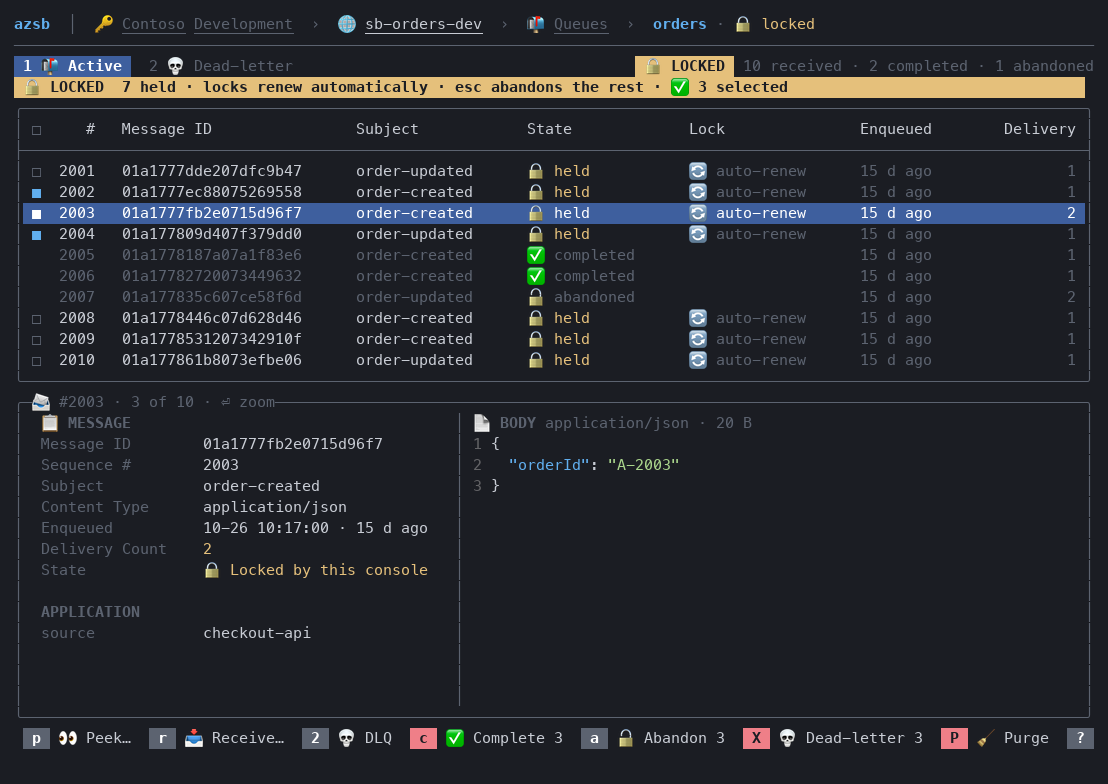
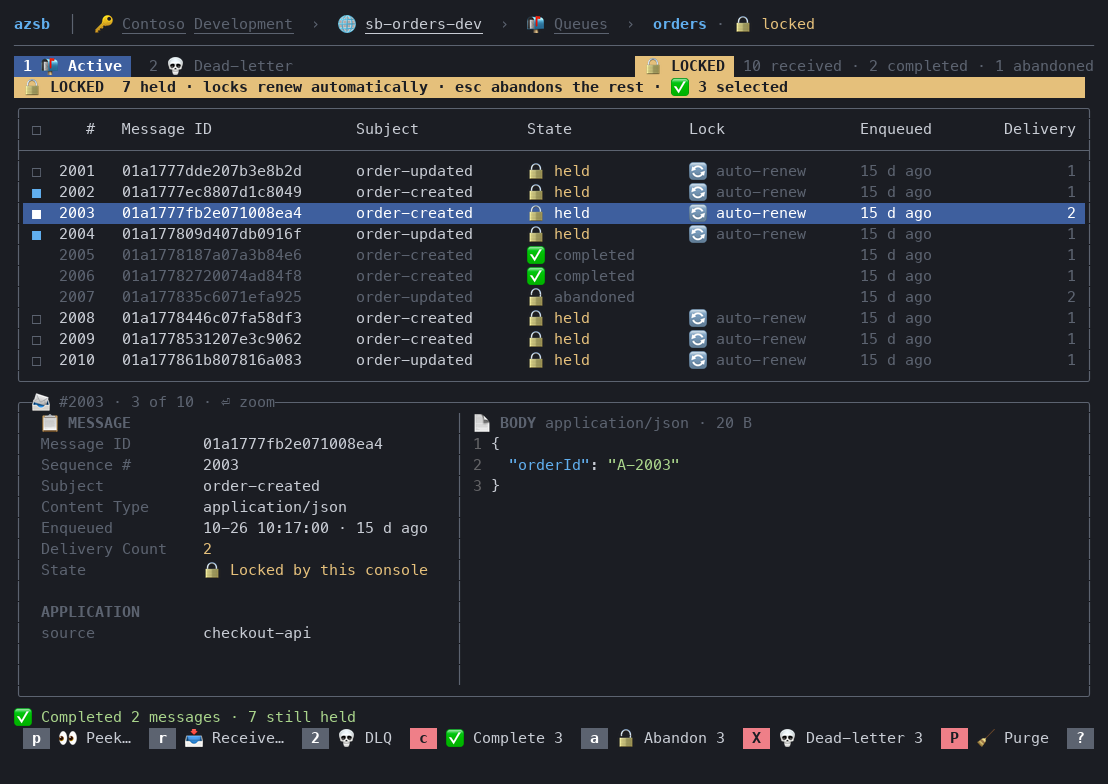
Report locked-mode settling in a status line
- Complete, abandon and dead-letter in Locked mode run without OperationDialog
- One-line status under the list: "✅ Completed 2 messages · 7 still held"
- Failures in the status in the danger color, still recorded in the activity log
- Detail page returns to the list after settling
- CLAUDE.md: OperationDialog rule limited to Retry, Resend, Requeue and Purge

Changed region(s): [[0.2148, 0.2143, 0.2762, 0.4898], [0.0, 0.8878, 0.3375, 0.949], [0.3069, 0.551, 0.3375, 0.5816]]

diff --git a/tests/ServiceBusConsole.Tests/LockedBrowserTests.cs b/tests/ServiceBusConsole.Tests/LockedBrowserTests.cs
@@ -1,4 +1,5 @@
 using System.Text;
+using Microsoft.Extensions.DependencyInjection;
 using RazorConsole.Testing;
 using ServiceBusConsole.Components;
 using Spectre.Console;
@@ -45,13 +46,13 @@ public sealed class LockedBrowserTests
         return (app, terminal);
     }
 
-    private static async Task ClickOkAsync(HeadlessTerminal terminal, string result)
+    /// <summary>Settling reports in one line under the list; no dialog to dismiss.</summary>
+    private static async Task<HeadlessTerminalFrame> WaitForStatusAsync(HeadlessTerminal terminal, string status)
     {
-        var frame = await terminal.WaitUntilAsync(f => f.ContainsText(result) && f.ContainsText("⏎  OK"), AppHarness.Timeout, cancellationToken: Ct);
-        var y = Enumerable.Range(0, frame.Height).First(y => frame.GetLine(y).Contains("⏎  OK"));
-        await terminal.ClickAsync(frame.GetLine(y).IndexOf("⏎  OK", StringComparison.Ordinal) + 2, y, Ct);
-        await terminal.WaitUntilAsync(f => !f.ContainsText(result), AppHarness.Timeout, cancellationToken: Ct);
+        var frame = await terminal.WaitForTextAsync(status, AppHarness.Timeout, Ct);
+        frame.ContainsText("⏎  OK").ShouldBeFalse(frame.ScreenText);
         await AppHarness.WaitForTableFocusAsync(terminal);
+        return frame;
     }
 
     /// <summary>The counts beside the tabs, and the strip's held count.</summary>
@@ -90,7 +91,10 @@ public sealed class LockedBrowserTests
         await terminal.SendKeyAsync(ConsoleKey.C, 'c', cancellationToken: Ct);
         await terminal.WaitForTextAsync("Complete message #1?", AppHarness.Timeout, Ct);
         await terminal.SendKeyAsync(ConsoleKey.Y, 'y', cancellationToken: Ct);
-        await ClickOkAsync(terminal, "Completed 1 of 1.");
+        var status = await WaitForStatusAsync(terminal, "✅ Completed message #1 · 2 still held");
+        Foreground(status, "✅ Completed message #1", "Completed").ShouldBe(Theme.Success);
+        terminal.Services.GetRequiredService<ActivityLog>().Entries
+            .ShouldContain(e => e.Kind == ActivityKind.Operation && e.Text == "Completing message #1: Completed message #1");
 
         var frame = await WaitForCountsAsync(terminal, "3 received · 1 completed", 2);
         frame.GetLine(Row(frame, "first")).ShouldContain("✅ completed");
@@ -121,12 +125,12 @@ public sealed class LockedBrowserTests
         await using var _ = terminal;
 
         await terminal.SendKeyAsync(ConsoleKey.A, 'a', cancellationToken: Ct);
-        await ClickOkAsync(terminal, "Abandoned 1 of 1.");
+        await WaitForStatusAsync(terminal, "✅ Abandoned message #1 · 2 still held");
         await terminal.SendKeyAsync(ConsoleKey.DownArrow, '\0', cancellationToken: Ct);
         await terminal.SendKeyAsync(ConsoleKey.X, 'X', ConsoleModifiers.Shift, Ct);
         await terminal.WaitForTextAsync("Move message #2 to the dead-letter queue?", AppHarness.Timeout, Ct);
         await terminal.SendKeyAsync(ConsoleKey.Y, 'y', cancellationToken: Ct);
-        await ClickOkAsync(terminal, "Dead-lettered 1 of 1.");
+        await WaitForStatusAsync(terminal, "✅ Dead-lettered message #2 · 1 still held");
         app.Messages.Received.ShouldNotBeNull().LoseLock(3);
 
         var frame = await WaitForCountsAsync(terminal, "3 received · 1 abandoned · 1 dead-lettered", 0);
@@ -143,7 +147,7 @@ public sealed class LockedBrowserTests
         var (app, terminal) = await ReceiveOrdersAsync();
         await using var _ = terminal;
         await terminal.SendKeyAsync(ConsoleKey.A, 'a', cancellationToken: Ct);
-        await ClickOkAsync(terminal, "Abandoned 1 of 1.");
+        await WaitForStatusAsync(terminal, "✅ Abandoned message #1 · 2 still held");
 
         var browserFocus = terminal.FocusKey;
         await terminal.SendKeyAsync(ConsoleKey.Enter, '\r', cancellationToken: Ct);
@@ -160,10 +164,34 @@ public sealed class LockedBrowserTests
         await terminal.SendKeyAsync(ConsoleKey.C, 'c', cancellationToken: Ct);
         await terminal.WaitForTextAsync("Complete message #2?", AppHarness.Timeout, Ct);
         await terminal.SendKeyAsync(ConsoleKey.Y, 'y', cancellationToken: Ct);
-        await ClickOkAsync(terminal, "Completed 1 of 1.");
+        await WaitForStatusAsync(terminal, "✅ Completed message #2 · 1 still held");
 
         frame = await WaitForCountsAsync(terminal, "3 received · 1 completed · 1 abandoned", 1);
         frame.GetLine(Row(frame, "second")).ShouldContain("✅ completed");
         app.Messages.Completed.ShouldBe([2L]);
+    }
+
+    [Test]
+    public async Task FailedSettle_ShowsInTheStatusInTheDangerColor_AndInTheActivityLog()
+    {
+        var (app, terminal) = await ReceiveOrdersAsync();
+        await using var _ = terminal;
+        app.Messages.FailSettle.Add(2);
+
+        await terminal.SendKeyAsync(ConsoleKey.A, '\u0001', ConsoleModifiers.Control, Ct);
+        await terminal.WaitForTextAsync("3 selected", AppHarness.Timeout, Ct);
+        await terminal.SendKeyAsync(ConsoleKey.C, 'c', cancellationToken: Ct);
+        await terminal.WaitForTextAsync("Complete 3 messages?", AppHarness.Timeout, Ct);
+        await terminal.SendKeyAsync(ConsoleKey.Y, 'y', cancellationToken: Ct);
+
+        const string status = "❌ Completed 2 of 3. Failed messages stay selected: #2 Service Bus is busy · 1 still held";
+        var frame = await WaitForStatusAsync(terminal, status);
+        Foreground(frame, status, "Completed").ShouldBe(Theme.Danger);
+        frame = await WaitForCountsAsync(terminal, "3 received · 2 completed", 1);
+        frame.ContainsText("1 selected").ShouldBeTrue(frame.ScreenText);
+        frame.GetLine(Row(frame, "second")).ShouldContain("🔒 held");
+        app.Messages.Completed.Order().ShouldBe([1L, 3L]);
+        terminal.Services.GetRequiredService<ActivityLog>().Entries
+            .ShouldContain(e => e.Kind == ActivityKind.Error && e.Text.StartsWith("Completing 3 messages: Completed 2 of 3.", StringComparison.Ordinal));
     }
 }

diff --git a/src/ServiceBusConsole/Messaging/MessageBrowser.cs b/src/ServiceBusConsole/Messaging/MessageBrowser.cs
@@ -27,6 +27,9 @@ public sealed class MessageBrowser(MessageSource source, IServiceBusNamespace ns
     /// <summary>The batch operation in progress or finished (until <see cref="Dismiss"/>), for the progress dialog; null when idle.</summary>
     public OperationProgress? Operation { get; private set; }
 
+    /// <summary>The last complete, abandon or dead-letter, for the status line under the list; null after a new load.</summary>
+    public OperationProgress? Settled { get; private set; }
+
     public event Action? Changed;
 
     /// <summary>A load or batch operation ended without throwing: finished with a result, or (a load) done or cancelled.</summary>
@@ -436,6 +439,7 @@ public sealed class MessageBrowser(MessageSource source, IServiceBusNamespace ns
         Messages = messages;
         Mode = mode;
         _settled.Clear();
+        Settled = null;
         Selected.Clear();
         Cursor = 0;
         Changed?.Invoke();
@@ -465,11 +469,12 @@ public sealed class MessageBrowser(MessageSource source, IServiceBusNamespace ns
         }
     }
 
-    // Settled rows stay in the list, marked; failed ones stay selected.
+    // Settled rows stay in the list, marked; failed ones stay selected. Reports in the status line, not a dialog.
     private Task SettleAsync(string title, string stepName, string pastVerb, LockedState settledAs, IReadOnlyList<MessageInfo> targets,
         Func<ILockedMessages, MessageInfo, CancellationToken, Task> settle) =>
-        RunAsync(new(title, [new(stepName, targets.Count)]), async op =>
+        RunAsync(new(title, [new(stepName, targets.Count)], modal: false), async op =>
         {
+            Settled = null;
             var locked = _locked ?? throw new InvalidOperationException(MessagingStrings.MessageBrowser_NoLockedMessages);
             var failures = new ConcurrentBag<Failure>();
             var done = await RunParallelAsync(Start(op, 0), targets, async (m, ct) =>
@@ -484,7 +489,9 @@ public sealed class MessageBrowser(MessageSource source, IServiceBusNamespace ns
                 catch (Exception ex) { failures.Add(new(m, Describe(ex))); return false; }
             });
             UpdateSelection(targets, failures.Select(f => f.Message));
-            Report(op, pastVerb, targets.Count, done.Count, [.. failures]);
+            if (failures.IsEmpty) op.Finish(MessagingStrings.FormatMessageBrowser_Settled(pastVerb, What(targets)), OperationOutcome.Succeeded);
+            else Report(op, pastVerb, targets.Count, done.Count, [.. failures]);
+            Settled = op;
         });
 
     private async Task<IReadOnlyList<MessageInfo>> RunParallelAsync(OperationStep step, IReadOnlyList<MessageInfo> items, Func<MessageInfo, CancellationToken, Task<bool>> op)

diff --git a/tests/ServiceBusConsole.Tests/Screenshots.cs b/tests/ServiceBusConsole.Tests/Screenshots.cs
@@ -177,20 +177,20 @@ public sealed class Screenshots
         await AppHarness.WaitForSettledAsync(terminal, f => f.ContainsText("10 received") && f.ContainsText("10 held"));
         await AppHarness.WaitForTableFocusAsync(terminal);
 
-        foreach (var _ in Enumerable.Range(0, 4)) await Key(terminal, ConsoleKey.DownArrow);
+        foreach (var _ in Enumerable.Range(0, 6)) await Key(terminal, ConsoleKey.DownArrow);
+        await Key(terminal, ConsoleKey.A, 'a');
+        await WaitForStatusAsync(terminal, "Abandoned message #2007");
+        await Key(terminal, ConsoleKey.UpArrow);
         await Key(terminal, ConsoleKey.Spacebar, ' ');
-        await Key(terminal, ConsoleKey.DownArrow);
+        await Key(terminal, ConsoleKey.UpArrow);
         await Key(terminal, ConsoleKey.Spacebar, ' ');
         await terminal.WaitForTextAsync("2 selected", AppHarness.Timeout, Ct);
         await Key(terminal, ConsoleKey.C, 'c');
         await terminal.WaitForTextAsync("Complete 2 messages?", AppHarness.Timeout, Ct);
         await Key(terminal, ConsoleKey.Y, 'y');
-        await DismissAsync(terminal, "Completed 2 of 2.");
-        await Key(terminal, ConsoleKey.DownArrow);
-        await Key(terminal, ConsoleKey.A, 'a');
-        await DismissAsync(terminal, "Abandoned 1 of 1.");
+        await WaitForStatusAsync(terminal, "Completed 2 messages");
 
-        foreach (var _ in Enumerable.Range(0, 5)) await Key(terminal, ConsoleKey.UpArrow);
+        foreach (var _ in Enumerable.Range(0, 3)) await Key(terminal, ConsoleKey.UpArrow);
         foreach (var _ in Enumerable.Range(0, 3))
         {
             await Key(terminal, ConsoleKey.Spacebar, ' ');
@@ -202,11 +202,9 @@ public sealed class Screenshots
         await Save(terminal, dir, "peeklock");
     }
 
-    private static async Task DismissAsync(HeadlessTerminal terminal, string result)
+    private static async Task WaitForStatusAsync(HeadlessTerminal terminal, string status)
     {
-        await terminal.WaitForTextAsync(result, AppHarness.Timeout, Ct);
-        await AppHarness.ClickTextAsync(terminal, "⏎  OK");
-        await terminal.WaitUntilAsync(f => !f.ContainsText(result), AppHarness.Timeout, cancellationToken: Ct);
+        await terminal.WaitForTextAsync(status, AppHarness.Timeout, Ct);
         await AppHarness.WaitForTableFocusAsync(terminal);
     }
 

diff --git a/tests/ServiceBusConsole.Tests/Fakes.cs b/tests/ServiceBusConsole.Tests/Fakes.cs
@@ -227,6 +227,9 @@ public sealed class FakeMessageService : IMessageService
     public System.Collections.Concurrent.ConcurrentQueue<long> Abandoned { get; } = [];
     public System.Collections.Concurrent.ConcurrentQueue<long> DeadLettered { get; } = [];
 
+    /// <summary>Sequence numbers whose complete, abandon or dead-letter fails while they stay held.</summary>
+    public HashSet<long> FailSettle { get; } = [];
+
     /// <summary>The last PeekLock receive, to lose a lock in a test.</summary>
     public FakeLockedMessages? Received { get; private set; }
 
@@ -351,6 +354,7 @@ public sealed class FakeLockedMessages(FakeMessageService service, IEnumerable<M
 
     private void Settle(MessageInfo message)
     {
+        if (service.FailSettle.Contains(message.SequenceNumber)) throw new InvalidOperationException("Service Bus is busy");
         bool removed;
         lock (_held) removed = _held.Remove(message.SequenceNumber);
         if (!removed)

diff --git a/CLAUDE.md b/CLAUDE.md
@@ -185,5 +185,6 @@ Declare once per action and trigger via `@ref`:
 - *Receive (ReceiveAndDelete)* removes messages at once; *Requeue* resends them.
 - *Retry* (DLQ, `MessageBrowser.RetryAsync`): chunks of up to 100, in order, as they are held. With `IHasTransactions` (Standard, Premium) each chunk moves in one transaction (`ITransactionService.MoveAsync`: send the copies, complete the originals; a failure rolls back and the chunk stays held); without, copies are sent, then the originals completed (at least once). Peeked DLQ messages are locked first with `IMessageService.StartLocking`, which receives from the front and abandons what it passes.
 - Transactions use the namespace's own client: a dead-letter queue and its queue, or a subscription and its topic, are one top-level entity. Don't set `EnableCrossEntityTransactions`: it makes a client fail receives on every entity after the first
-- Batch operations end in `OperationDialog` with a result (failures included) until OK; navigate in its `OnDismiss`, not in `AsyncCommand.OnCompleted`.
+- Retry, Resend, Requeue and Purge end in `OperationDialog` with a result (failures included) until OK; navigate in its `OnDismiss`, not in `AsyncCommand.OnCompleted`.
+- Complete, abandon and dead-letter in Locked mode run without a dialog and report in a one-line status under the list (`MessageBrowser.Settled`; failures in the danger color), recorded through `Ended` like the rest; the detail page goes back to that list in their `OnCompleted`.
 - That scan is only allowed in a dead-letter queue (abandon there only bumps the delivery count). Never scan an active queue: abandon there can dead-letter unrelated messages.
